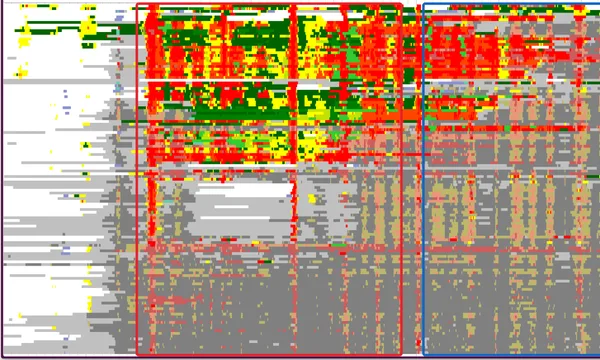
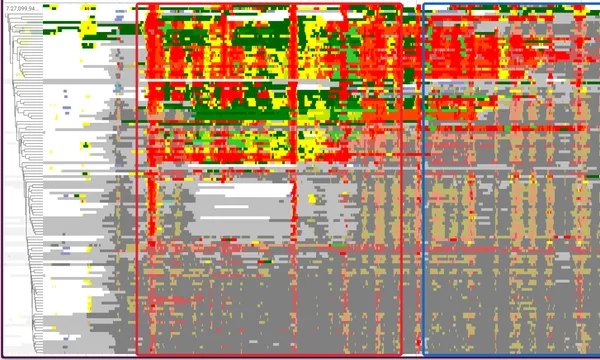
docs(chromhmm): show the 127-epigenome dendrogram, and name what its clades are
The figure lost its dendrogram to the newick quoting bug: three Roadmap
epigenome names carry parentheses, so the tree described leaves that were
not the rows and StaleTreeHint replaced it. With that fixed the sidebar
draws, and the two top-level clades are the thing the figure is for — one
carrying active promoter, enhancer and transcription across the anterior
box, the other holding both boxes Polycomb-repressed and bivalent.

The caption said "clustering separates", which was the claim the picture
could not back while the tree was missing. It now points at the clades a
reader can see, and the gallery card says the same.

Claude-Session: https://claude.ai/code/session_013jYg5NgpJwBu7VpfDmyAAG

Changed region(s): [[0.0, 0.0, 0.09, 1.0]]

diff --git a/website/src/lib/gallery.ts b/website/src/lib/gallery.ts
@@ -364,7 +364,7 @@ export const gallerySections: readonly GallerySection[] = [
         spec: 'chromhmm',
         guide: 'tutorials/chromhmm',
         description:
-          'Roadmap Epigenomics chromatin states from a single BigBed. The multi-row feature display splits features by cell type into one row each, colors them with the itemRgb values the file carries, and derives the state legend from the data.',
+          'Roadmap Epigenomics chromatin states from a single BigBed. The multi-row feature display splits features by cell type into one row each, colors them with the itemRgb values the file carries, and derives the state legend from the data. Clustered over the HOXA cluster, the 127 epigenomes separate into those that open its anterior half and those holding all of it repressed.',
       },
       {
         label: 'Single-cell ATAC pseudobulk',

diff --git a/website/docs/tutorials/chromhmm.md b/website/docs/tutorials/chromhmm.md
@@ -175,7 +175,7 @@ The same recipe scales to the
 a longer `rowOrder`. Because the multi-row display fetches and lays out one
 file, 127 epigenomes is still one track, one adapter, one fetch, not 127 tracks.
 
-<Figure src="/img/chromhmm.png" caption="The same display at 127 epigenomes instead of nine, over the same HOXA window and the same two boxes, with the rows ordered by Cluster rows by similarity rather than by config. Each row is one epigenome, thin enough that the painting reads as a heatmap of state rather than as blocks. Clustering separates the epigenomes carrying active promoter, enhancer and transcription across the anterior box from those holding both boxes in Polycomb-repressed and bivalent states."/>
+<Figure src="/img/chromhmm.png" caption="The same display at 127 epigenomes instead of nine, over the same HOXA window and the same two boxes, with the rows ordered by Cluster rows by similarity rather than by config and the dendrogram in the sidebar. Each row is one epigenome, thin enough that the painting reads as a heatmap of state rather than as blocks. The two top-level clades separate the epigenomes carrying active promoter, enhancer and transcription across the anterior box from those holding both boxes in Polycomb-repressed and bivalent states."/>
 
 At that row count `rowOrder` is 127 lines of config whose only job is to keep
 related tissues adjacent, which is exactly what **Cluster rows by similarity**
